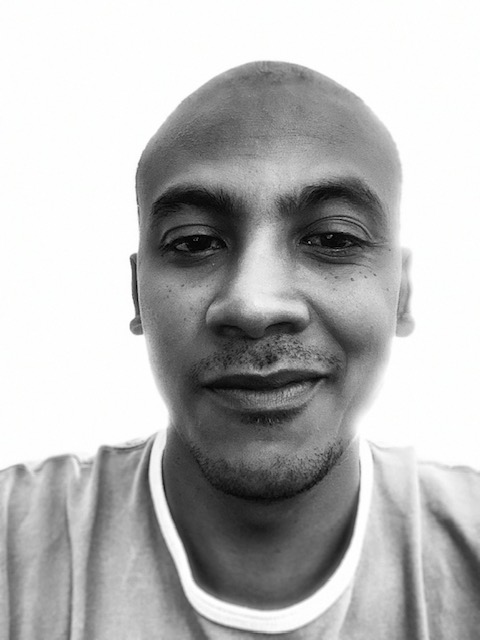
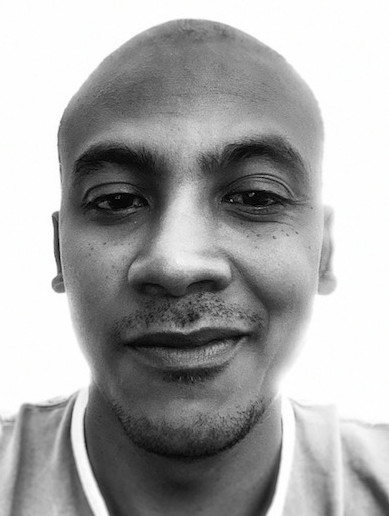
correction portrait rajout overflow hidden

diff --git a/style.css b/style.css
@@ -51,14 +51,18 @@ header {
     color: #FFF;
     padding: 10px 10px;
     margin: 20px 0;
+    cursor: pointer;
 }
 .portrait {
-    height: 470px;
-    objet-fit: left/cover;
+    height: 480px;
+    width: 400px;
+    objet-fit: bottom/contain;    
+    border-radius: 50%;
+    overflow:hidden;
 }
 .portrait img{
-    max-height: 470px;
-    clip-path:ellipse(50% 40%);    
+   width: 480px;
+
 }
 
 /* KNOWLEDGE */
